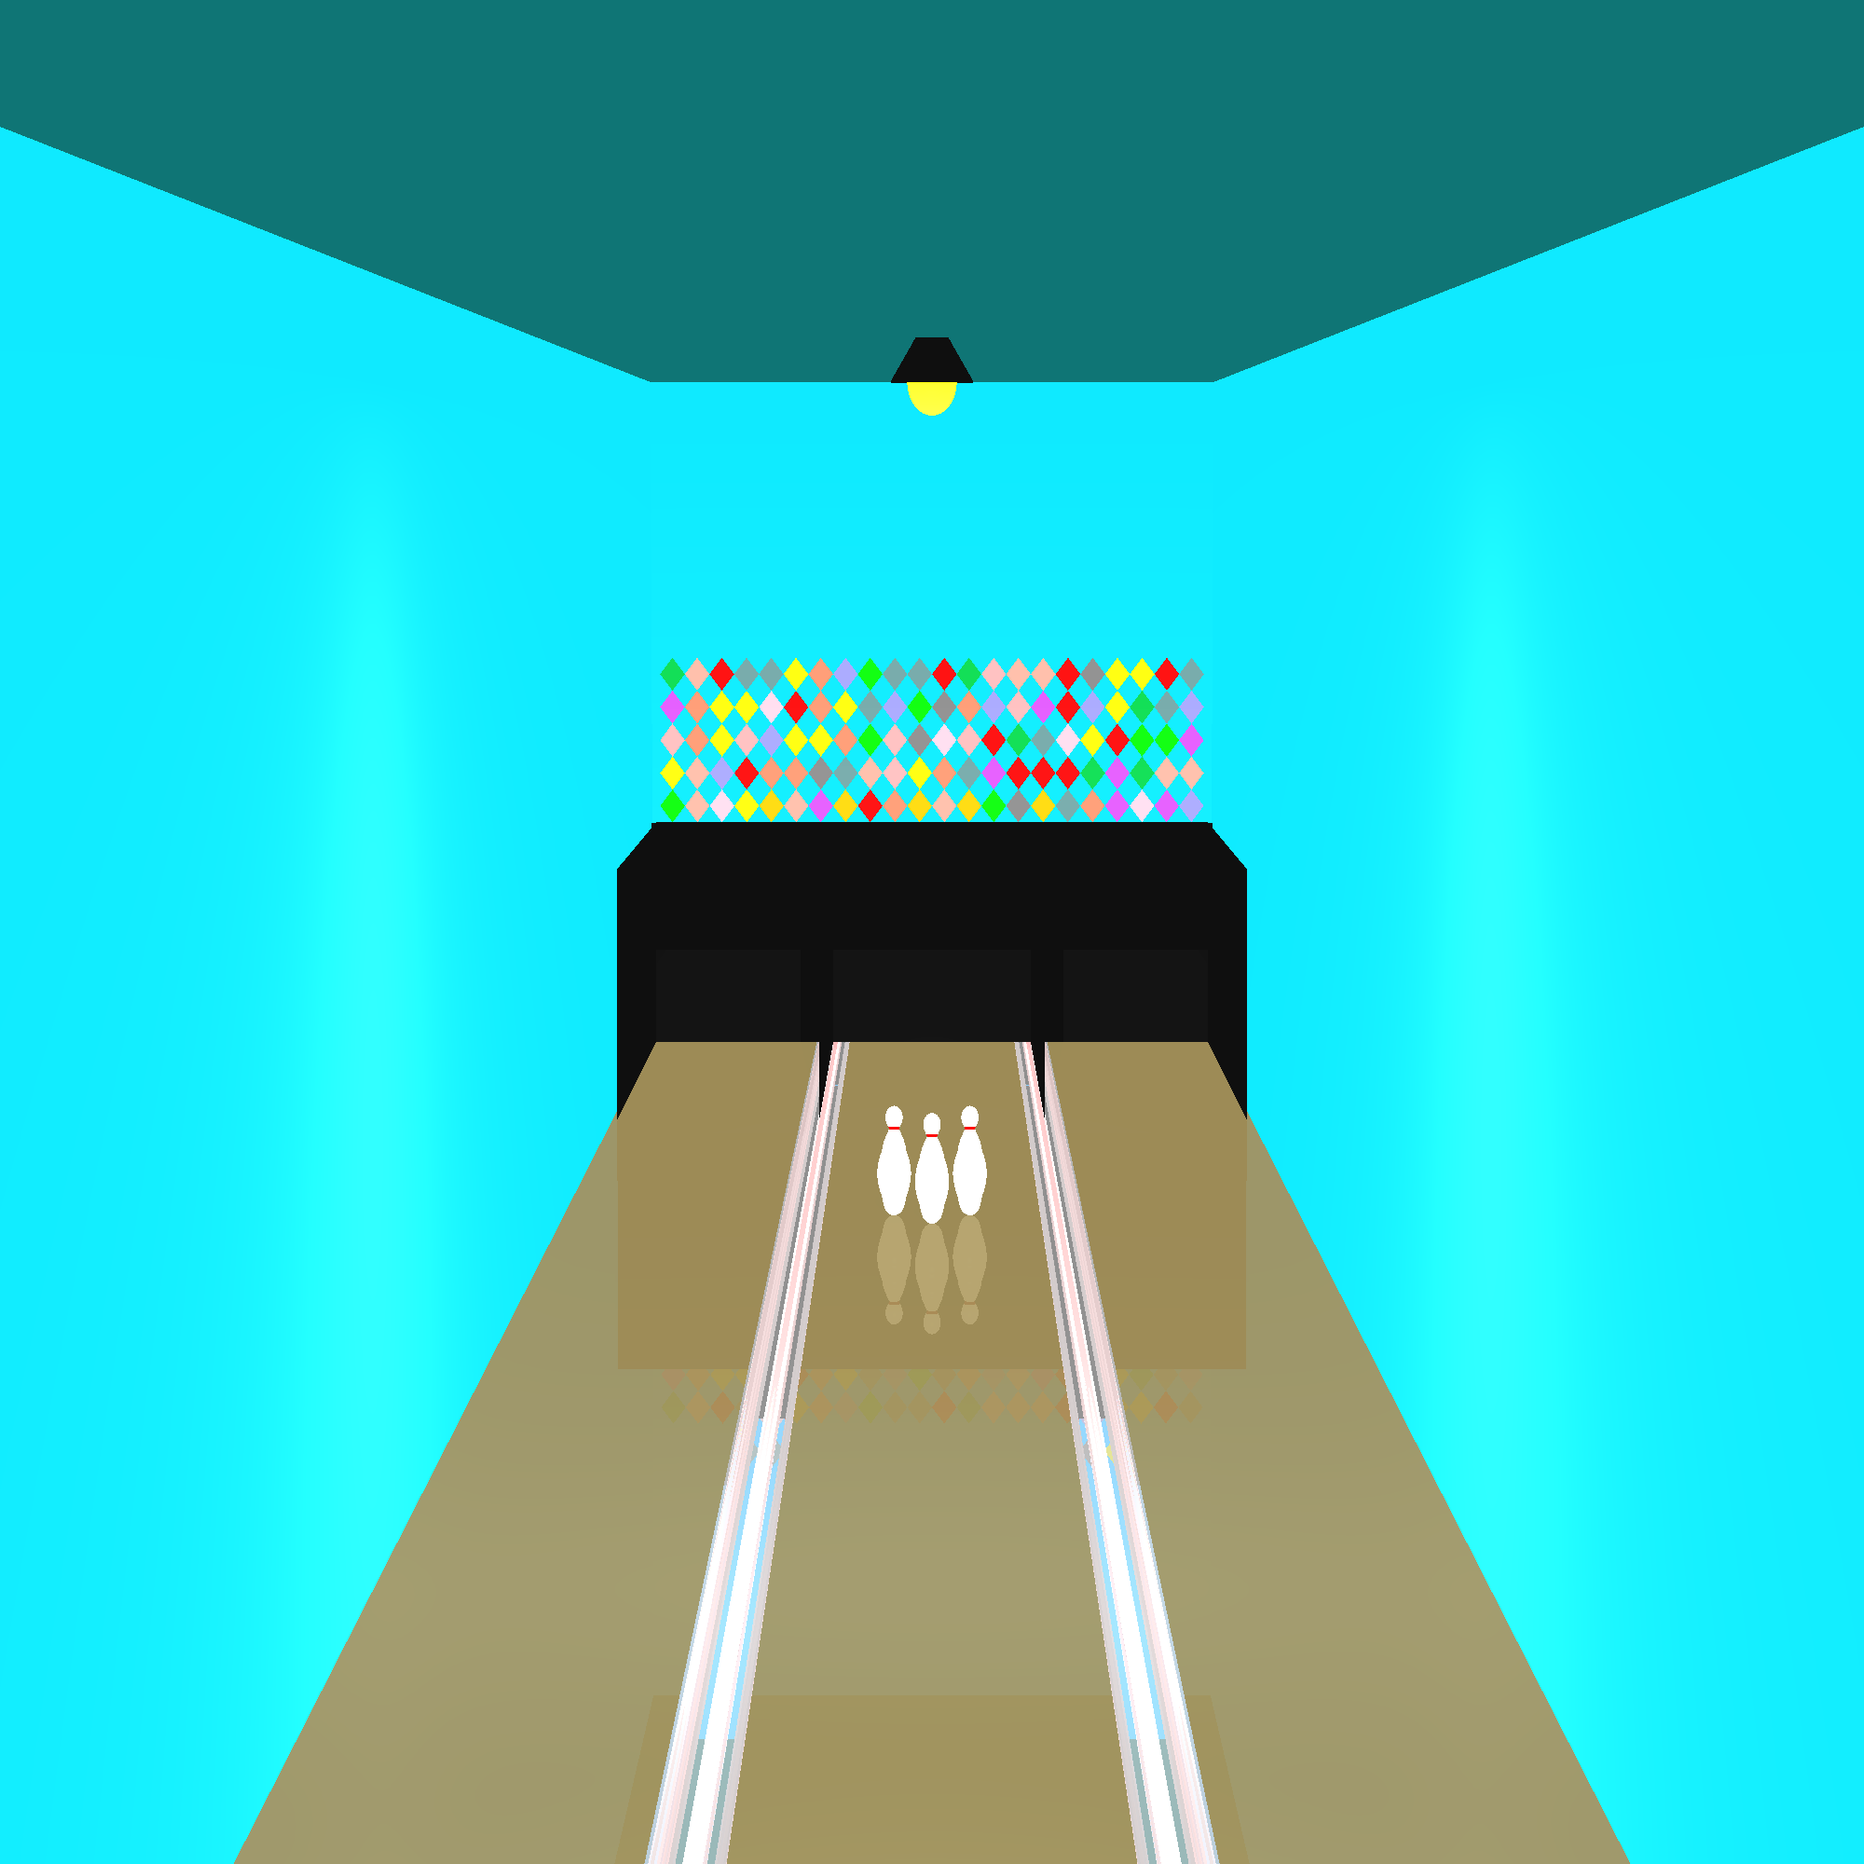
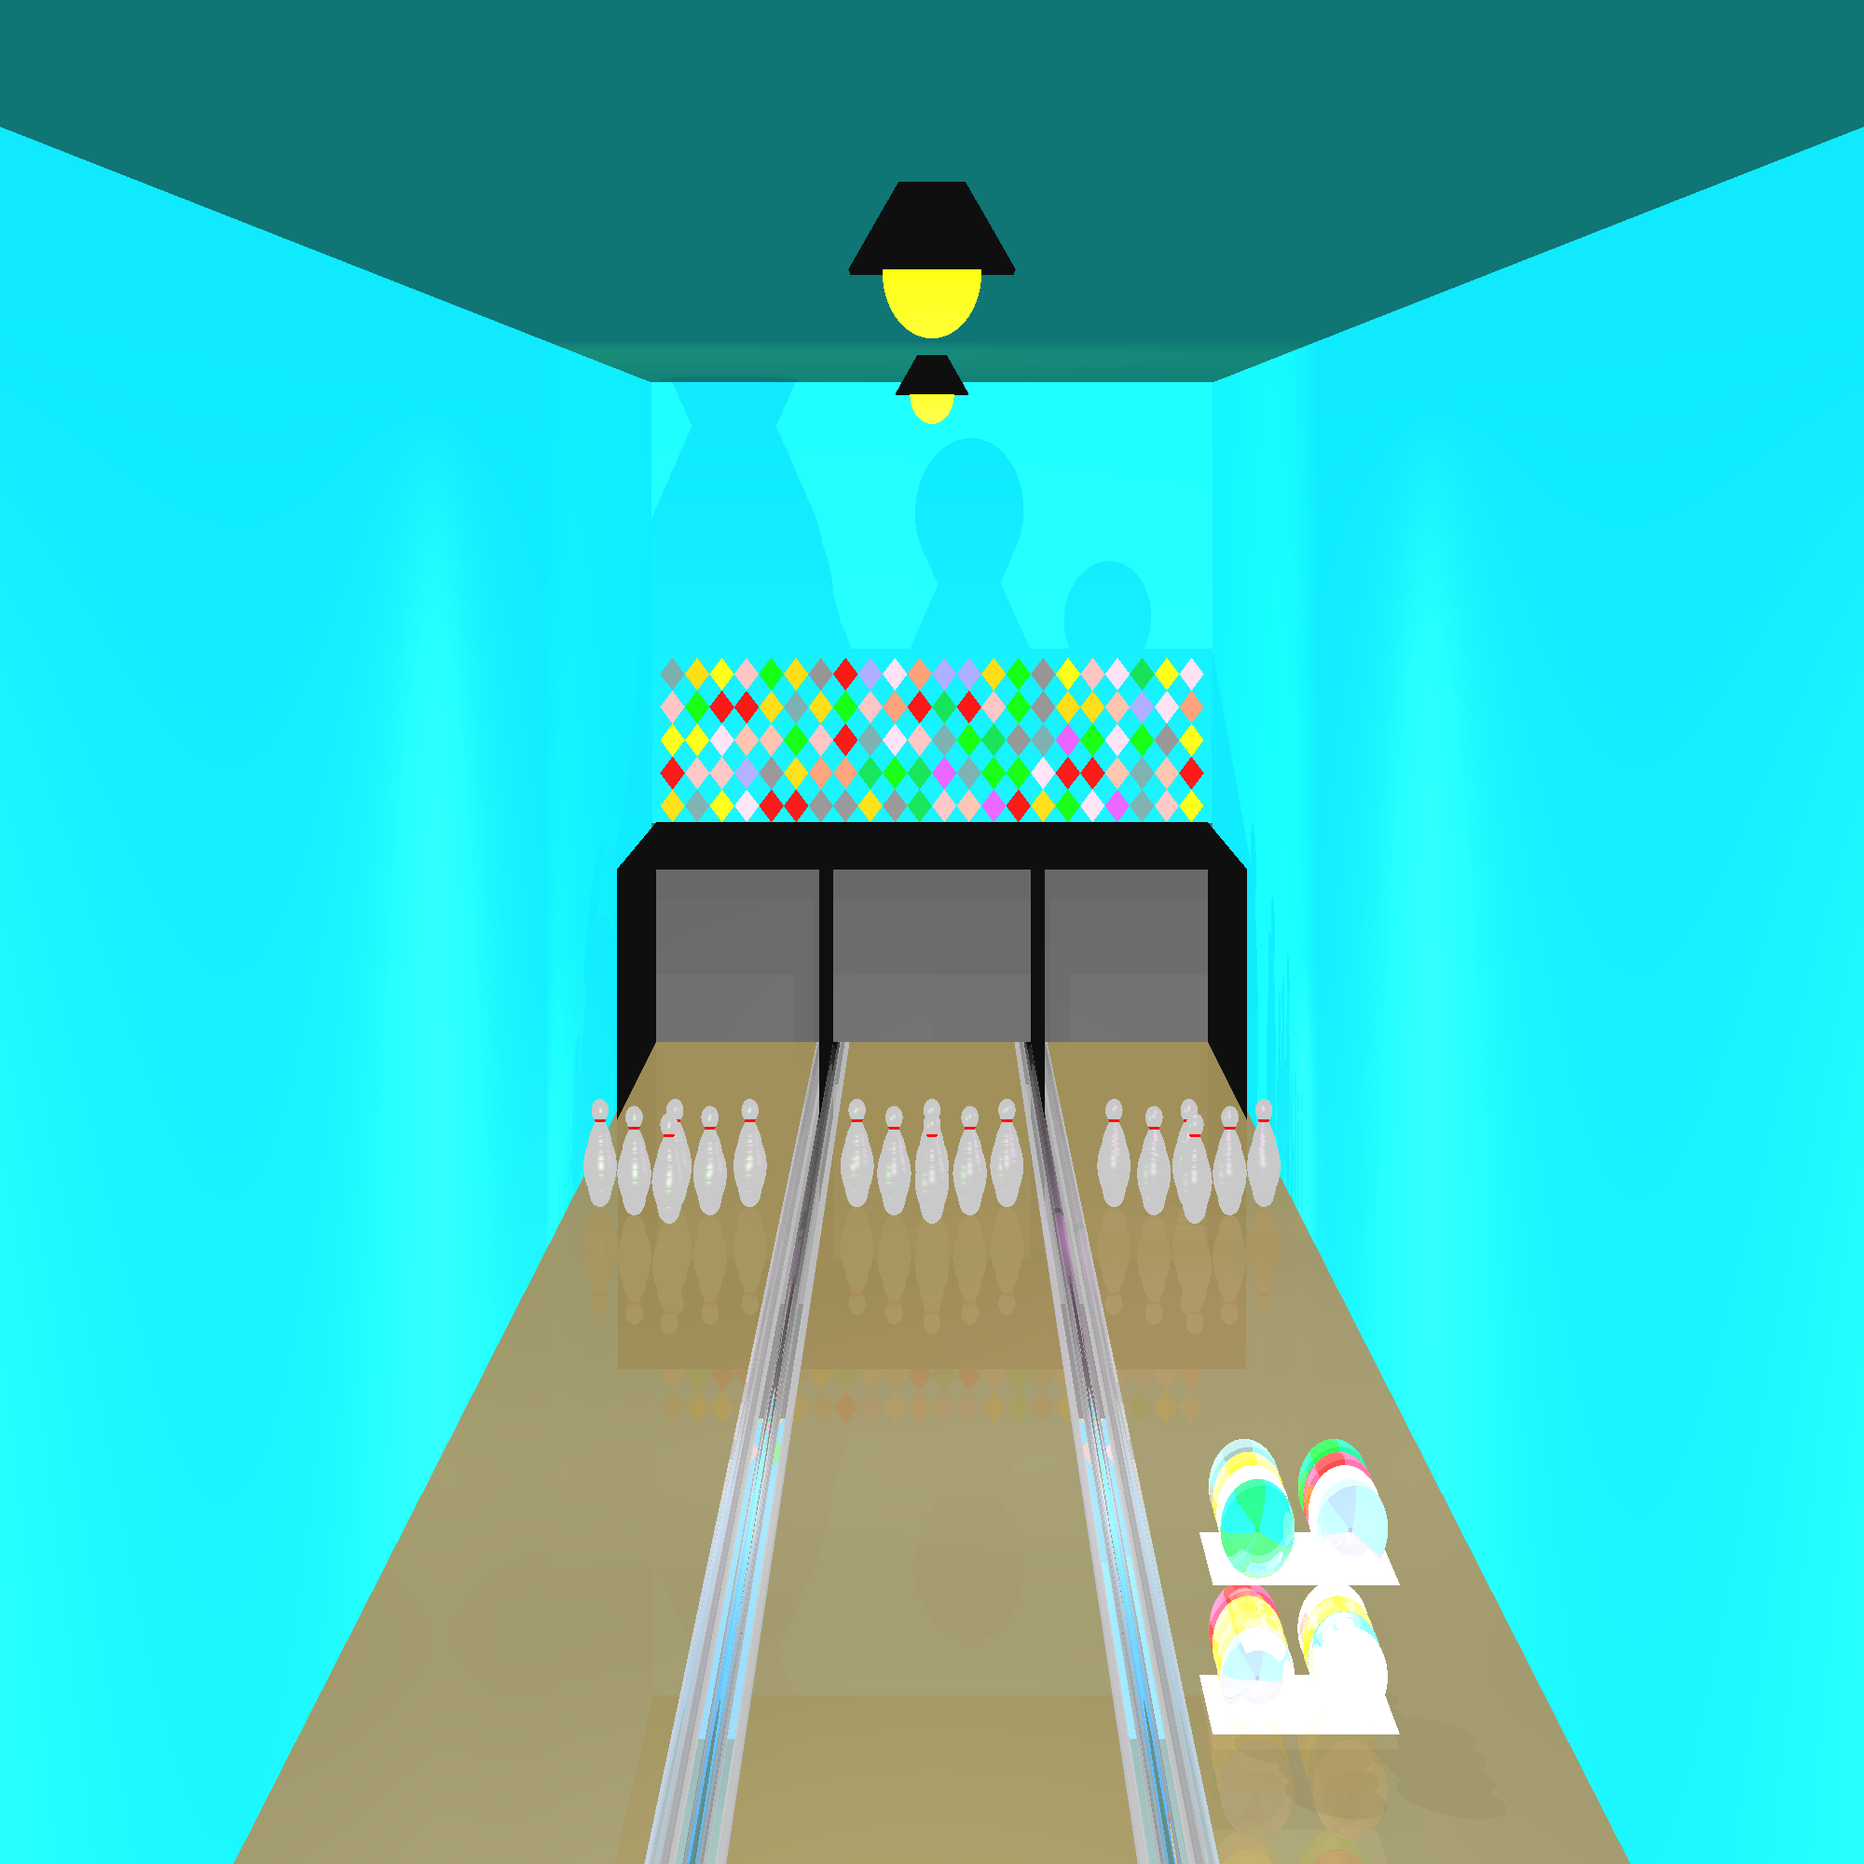
working on picture

Changed region(s): [[0.31, 0.341, 0.744, 1.0], [0.434, 0.093, 0.558, 0.217]]

diff --git a/unitTests/finalPicture/OurPictureMP1.java b/unitTests/finalPicture/OurPictureMP1.java
@@ -26,19 +26,36 @@ public class OurPictureMP1 {
 
         Camera camera = new Camera(new Point(-1000, 0, 500), new Vector(1, 0, -0.05), new Vector(0.05, 0, 1)) //
                 .setVPSize(200, 150).setVPDistance(Math.sqrt(500000));
-        Camera cameraTop = new Camera(new Point(5000, 0, 500), new Vector(0, 0, -1), new Vector(1, 0, 0)) //
-                .setVPSize(200, 150).setVPDistance(500);
+        Camera cameraTop = new Camera(new Point(5000, 0, 580), new Vector(0, 0, -1), new Vector(1, 0, 0)) //
+                .setVPSize(200, 150).setVPDistance(100);
 
 
         createLanes();
-        createBowlingPins();
+
+        createBowlingPins(firstX,0);
+        createBowlingPins(firstX,-240);
+        createBowlingPins(firstX,240);
 
         createWalls();
 
         createBoxForEndOfLane();
 
+        SpotLight leftBottomSpotLight = new SpotLight(new Color(217, 102, 255).reduce(20), new Point(0, 200, 50), new Vector(1, -1, -0.5));
+        //_scene._lights.add(leftBottomSpotLight);
 
-        createLightFixture(new Point(3000,0,550));
+
+        SpotLight trySomething = new SpotLight(new Color(255, 102, 255).reduce(5), new Point(5000, -240, 180), new Vector(0, 0, -1));
+        _scene._lights.add(trySomething);
+
+SpotLight trySomething2 = new SpotLight(new Color(102, 255, 51).reduce(5), new Point(4800, 240, 10), new Vector(1, 0, 0));
+        _scene._lights.add(trySomething2);
+
+
+        createBallHolder(2500,-150,3);
+
+
+        createLightFixture(new Point(3500, 0, 550));
+        createLightFixture(new Point(1000, 0, 550));
         _scene.setAmbientLight(new AmbientLight(new Color(WHITE), 0.06));
 
         createTexture(new Ray(new Point(6999, -330, 200), new Vector(0, 1, 1)));
@@ -47,11 +64,32 @@ public class OurPictureMP1 {
                 .setRayTracer(new RayTracerBasic(_scene)) //
                 .renderImage() //
                 .writeToImage();
+
         cameraTop.setImageWriter(new ImageWriter("ourPictureMP1Up", 500, 500)) //
                 .setRayTracer(new RayTracerBasic(_scene)) //
                 .renderImage() //
                 .writeToImage();
 
+    }
+
+    private void createBallHolder(int ballHolderX, int ballHolderY, int ballHolderZ) {
+
+        Material ballHolderMat = new Material().setShininess(19).setKt(0.95).setKd(0.2).setKr(0.1).setKs(1);
+        Color ballHolderColor = new Color(140, 140, 140);
+        Geometry bottomBallHolder = new Polygon(new Point(ballHolderX, ballHolderY, ballHolderZ), new Point(ballHolderX + 180, ballHolderY, ballHolderZ), new Point(ballHolderX + 180, ballHolderY - 100, ballHolderZ), new Point(ballHolderX, ballHolderY - 100, ballHolderZ))
+                .setMaterial(ballHolderMat).setEmission(ballHolderColor);
+        Geometry topBallHolder = new Polygon(new Point(ballHolderX, ballHolderY, ballHolderZ + 60), new Point(ballHolderX + 180, ballHolderY, ballHolderZ + 60), new Point(ballHolderX + 180, ballHolderY - 100, ballHolderZ + 60), new Point(ballHolderX, ballHolderY - 100, ballHolderZ + 60))
+                .setMaterial(ballHolderMat).setEmission(ballHolderColor);
+        for(int i=0;i<4;i++){
+            for (int j=0;j<2;j++)
+            {
+                _scene._geometries.add(new Sphere(new Point(ballHolderX+25+50*i,ballHolderY-25-50*j,ballHolderZ+80),20)
+                        .setEmission(randomColor()).setMaterial(new Material().setKs(1).setKd(0.45).setKr(0.35)));
+                _scene._geometries.add(new Sphere(new Point(ballHolderX+25+50*i,ballHolderY-25-50*j,ballHolderZ+20),20)
+                        .setEmission(randomColor()).setMaterial(new Material().setKs(1).setKd(0.45).setKr(0.35)));
+            }
+        }
+        _scene._geometries.add(bottomBallHolder,topBallHolder);
     }
 
     private void createLanes() {
@@ -64,46 +102,43 @@ public class OurPictureMP1 {
                 .setMaterial(laneMaterial);
         Polygon laneLeft = (Polygon) new Polygon(new Point(-500, 140, 0), new Point(lengthToX, 140, 0), new Point(lengthToX, 340, 0), new Point(-500, 340, 0)).setEmission(laneColor)
                 .setMaterial(laneMaterial);
-        _scene._geometries.add(lane, laneLeft, laneRight);
         Polygon leftPolR = (Polygon) new Polygon(new Point(-500, 100, 0), new Point(lengthToX, 100, 0), new Point(lengthToX, 110, -20), new Point(-500, 110, -20)).setEmission(new Color(GRAY))
                 .setMaterial(new Material().setKs(1).setKd(0.3).setKr(0.3).setShininess(19));
         Polygon leftPolM = (Polygon) new Polygon(new Point(-500, 110, -20), new Point(lengthToX, 110, -20), new Point(lengthToX, 130, -20), new Point(-500, 130, -20)).setEmission(new Color(GRAY))
                 .setMaterial(new Material().setKs(1).setKd(0.3).setKr(0.3).setShininess(19));
-        Tube leftTube= (Tube) new Tube(new Ray(new Point(-500, 120, -15), new Vector(1,0,0)),5)
-                .setEmission(new Color(PINK)).setMaterial(new Material().setKs(1).setKd(0.4).setKr(0.4));
-        _scene._geometries.add(leftTube);
-        _scene._geometries.add(leftPolM);
-        Polygon leftPolL = (Polygon) new Polygon(new Point(-500, 140, 0), new Point(lengthToX, 140, 0), new Point(lengthToX, 130, -20), new Point(-500, 130, -20)).setEmission(new Color(GRAY))
+        Tube leftTube = (Tube) new Tube(new Ray(new Point(-500, 120, -15), new Vector(1, 0, 0)), 5)
+                .setMaterial(new Material().setKs(1).setKd(0.6).setKr(0.4));        Polygon leftPolL = (Polygon) new Polygon(new Point(-500, 140, 0), new Point(lengthToX, 140, 0), new Point(lengthToX, 130, -20), new Point(-500, 130, -20)).setEmission(new Color(GRAY))
                 .setMaterial(new Material().setKs(1).setKd(0.3).setKr(0.3).setShininess(19));
         Polygon rightPolR = (Polygon) new Polygon(new Point(-500, -140, 0), new Point(lengthToX, -140, 0), new Point(lengthToX, -130, -20), new Point(-500, -130, -20)).setEmission(new Color(GRAY))
                 .setMaterial(new Material().setKs(1).setKd(0.3).setKr(0.3).setShininess(19));
         Polygon rightPolM = (Polygon) new Polygon(new Point(-500, -110, -20), new Point(lengthToX, -110, -20), new Point(lengthToX, -130, -20), new Point(-500, -130, -20)).setEmission(new Color(GRAY))
                 .setMaterial(new Material().setKs(1).setKd(0.3).setKr(0.3).setShininess(19));
-        Tube rightTube= (Tube) new Tube(new Ray(new Point(-500, -120, -15), new Vector(1,0,0)),5)
-                .setEmission(new Color(PINK)).setMaterial(new Material().setKs(1).setKd(0.4).setKr(0.4));
-        _scene._geometries.add(rightTube);
-        _scene._geometries.add(rightPolM);
+        Tube rightTube = (Tube) new Tube(new Ray(new Point(-500, -120, -15), new Vector(1, 0, 0)), 5)
+                .setMaterial(new Material().setKs(1).setKd(0.6).setKr(0.4));
         Polygon rightPolL = (Polygon) new Polygon(new Point(-500, -100, 0), new Point(lengthToX, -100, 0), new Point(lengthToX, -110, -20), new Point(-500, -110, -20)).setEmission(new Color(GRAY))
                 .setMaterial(new Material().setKs(1).setKd(0.3).setKr(0.3).setShininess(19));
-        _scene._geometries.add(rightPolL, rightPolR, leftPolL, leftPolR);
+        _scene._geometries.add(lane, laneLeft, laneRight);
+        _scene._geometries.add(rightPolL, rightPolR, leftPolL, leftPolR,rightPolM,leftPolM);
+        _scene._geometries.add(rightTube,leftTube);
 
     }
 
-    private void createBowlingPins() {
+    private void createBowlingPins(int x, int y) {
         Material bowlPinMat = new Material().setKs(1).setShininess(19);
-        Color bowlingMain = new Color(WHITE).scale(2);
-        BowlingPin bowlingPin1 = new BowlingPin(new Ray(new Point(firstX, 0, 0), new Vector(0, 0, 1)), bowlPinMat, bowlingMain, new Color(RED));
-        BowlingPin bowlingPin2 = new BowlingPin(new Ray(new Point(firstX + distanceBetweenPins, -distanceBetweenPins / 2, 0), new Vector(0, 0, 1)), bowlPinMat, bowlingMain, new Color(RED));
-        BowlingPin bowlingPin3 = new BowlingPin(new Ray(new Point(firstX + distanceBetweenPins, distanceBetweenPins / 2, 0), new Vector(0, 0, 1)), bowlPinMat, bowlingMain, new Color(RED));
-        BowlingPin bowlingPin4 = new BowlingPin(new Ray(new Point(firstX + 2 * distanceBetweenPins, -distanceBetweenPins, 0), new Vector(0, 0, 1)), bowlPinMat, bowlingMain, new Color(RED));
-        BowlingPin bowlingPin5 = new BowlingPin(new Ray(new Point(firstX + 2 * distanceBetweenPins, 0, 0), new Vector(0, 0, 1)), bowlPinMat, bowlingMain, new Color(RED));
-        BowlingPin bowlingPin6 = new BowlingPin(new Ray(new Point(firstX + 2 * distanceBetweenPins, distanceBetweenPins, 0), new Vector(0, 0, 1)), bowlPinMat, bowlingMain, new Color(RED));
-        BowlingPin bowlingPin7 = new BowlingPin(new Ray(new Point(firstX + 3 * distanceBetweenPins, -1.5 * distanceBetweenPins, 0), new Vector(0, 0, 1)), bowlPinMat, bowlingMain, new Color(RED));
-        BowlingPin bowlingPin8 = new BowlingPin(new Ray(new Point(firstX + 3 * distanceBetweenPins, -distanceBetweenPins / 2, 0), new Vector(0, 0, 1)), bowlPinMat, bowlingMain, new Color(RED));
-        BowlingPin bowlingPin9 = new BowlingPin(new Ray(new Point(firstX + 3 * distanceBetweenPins, distanceBetweenPins / 2, 0), new Vector(0, 0, 1)), bowlPinMat, bowlingMain, new Color(RED));
-        BowlingPin bowlingPin10 = new BowlingPin(new Ray(new Point(firstX + 3 * distanceBetweenPins, 1.5 * distanceBetweenPins, 0), new Vector(0, 0, 1)), bowlPinMat, bowlingMain, new Color(RED));
-        //_scene._geometries.add(bowlingPin1,lane,rightPolL,rightPolR,leftPolL,leftPolR,bowlingPin2,bowlingPin3,bowlingPin4,bowlingPin5,bowlingPin6,bowlingPin7,bowlingPin8,bowlingPin9,bowlingPin10);
-        _scene._geometries.add(bowlingPin1, bowlingPin2, bowlingPin3);
+        Color bowlingMain = new Color(242, 242, 242).reduce(1.3);
+        BowlingPin bowlingPin1 = new BowlingPin(new Ray(new Point(firstX, y, 0), new Vector(0, 0, 1)), bowlPinMat, bowlingMain, new Color(RED));
+        BowlingPin bowlingPin2 = new BowlingPin(new Ray(new Point(firstX + distanceBetweenPins, y -distanceBetweenPins / 2, 0), new Vector(0, 0, 1)), bowlPinMat, bowlingMain, new Color(RED));
+        BowlingPin bowlingPin3 = new BowlingPin(new Ray(new Point(firstX + distanceBetweenPins, y+distanceBetweenPins / 2, 0), new Vector(0, 0, 1)), bowlPinMat, bowlingMain, new Color(RED));
+        BowlingPin bowlingPin4 = new BowlingPin(new Ray(new Point(firstX + 2 * distanceBetweenPins, y-distanceBetweenPins, 0), new Vector(0, 0, 1)), bowlPinMat, bowlingMain, new Color(RED));
+        BowlingPin bowlingPin5 = new BowlingPin(new Ray(new Point(firstX + 2 * distanceBetweenPins, y, 0), new Vector(0, 0, 1)), bowlPinMat, bowlingMain, new Color(RED));
+        BowlingPin bowlingPin6 = new BowlingPin(new Ray(new Point(firstX + 2 * distanceBetweenPins, y+distanceBetweenPins, 0), new Vector(0, 0, 1)), bowlPinMat, bowlingMain, new Color(RED));
+        BowlingPin bowlingPin7 = new BowlingPin(new Ray(new Point(firstX + 3 * distanceBetweenPins, y-1.5 * distanceBetweenPins, 0), new Vector(0, 0, 1)), bowlPinMat, bowlingMain, new Color(RED));
+        BowlingPin bowlingPin8 = new BowlingPin(new Ray(new Point(firstX + 3 * distanceBetweenPins, y-distanceBetweenPins / 2, 0), new Vector(0, 0, 1)), bowlPinMat, bowlingMain, new Color(RED));
+        BowlingPin bowlingPin9 = new BowlingPin(new Ray(new Point(firstX + 3 * distanceBetweenPins, y+distanceBetweenPins / 2, 0), new Vector(0, 0, 1)), bowlPinMat, bowlingMain, new Color(RED));
+        BowlingPin bowlingPin10 = new BowlingPin(new Ray(new Point(firstX + 3 * distanceBetweenPins, y+1.5 * distanceBetweenPins, 0), new Vector(0, 0, 1)), bowlPinMat, bowlingMain, new Color(RED));
+        //_scene._geometries.add(bowlingPin1,bowlingPin2,bowlingPin3,bowlingPin4,bowlingPin5,bowlingPin6,bowlingPin7,bowlingPin8,bowlingPin9,bowlingPin10);
+        _scene._geometries.add(bowlingPin1,bowlingPin2,bowlingPin3,bowlingPin4,bowlingPin5,bowlingPin6);
+        //_scene._geometries.add(bowlingPin1, bowlingPin2, bowlingPin3);
     }
 
     private void createWalls() {
@@ -131,18 +166,16 @@ public class OurPictureMP1 {
                 .setMaterial(new Material().setKs(0.8).setShininess(19));
         Geometry topBox = new Polygon(new Point(6000, -335, boxHeight), new Point(lengthToX, -335, boxHeight), new Point(lengthToX, 335, boxHeight), new Point(6000, 335, boxHeight)).setEmission(new Color(BLACK))
                 .setMaterial(new Material().setKs(0.8).setShininess(19));
-        Geometry backBox = new Polygon(new Point(6995, 340, boxHeight), new Point(6995, -340, boxHeight), new Point(6995, -340, 0), new Point(6995, 340, 0)).setEmission(new Color(BLACK))
+        Geometry backBox = new Polygon(new Point(6995, 340, boxHeight), new Point(6995, -340, boxHeight), new Point(6995, -340, 0), new Point(6995, 340, 0)).setEmission(new Color(89, 89, 89))
                 .setMaterial(new Material().setKs(0.8).setShininess(19));
         _scene._geometries.add(leftBox, rightBox, topBox, backBox, secondBox, thirdBox);
     }
 
 
     void createLightFixture(Point p) {
-        //int lightX = 3000;
         double lightX = p.getX();
         double lightY = p.getY();
         double lightZ = p.getZ();
-        //int lightZ = 550;
         Geometry lightFront = new Polygon(new Point(lightX - 25, lightY - 25, lightZ), new Point(lightX - 25, lightY + 25, lightZ), new Point(lightX - 15, lightY + 10, lightZ + 20), new Point(lightX - 15, lightY - 10, lightZ + 20))
                 .setMaterial(new Material().setShininess(19).setKs(1)).setEmission(new Color(BLACK));
         Geometry lightRight = new Polygon(new Point(lightX - 25, lightY - 25, lightZ), new Point(lightX + 25, lightY - 25, lightZ), new Point(lightX + 15, lightY - 10, lightZ + 20), new Point(lightX - 15, lightY + -10, lightZ + 20))
